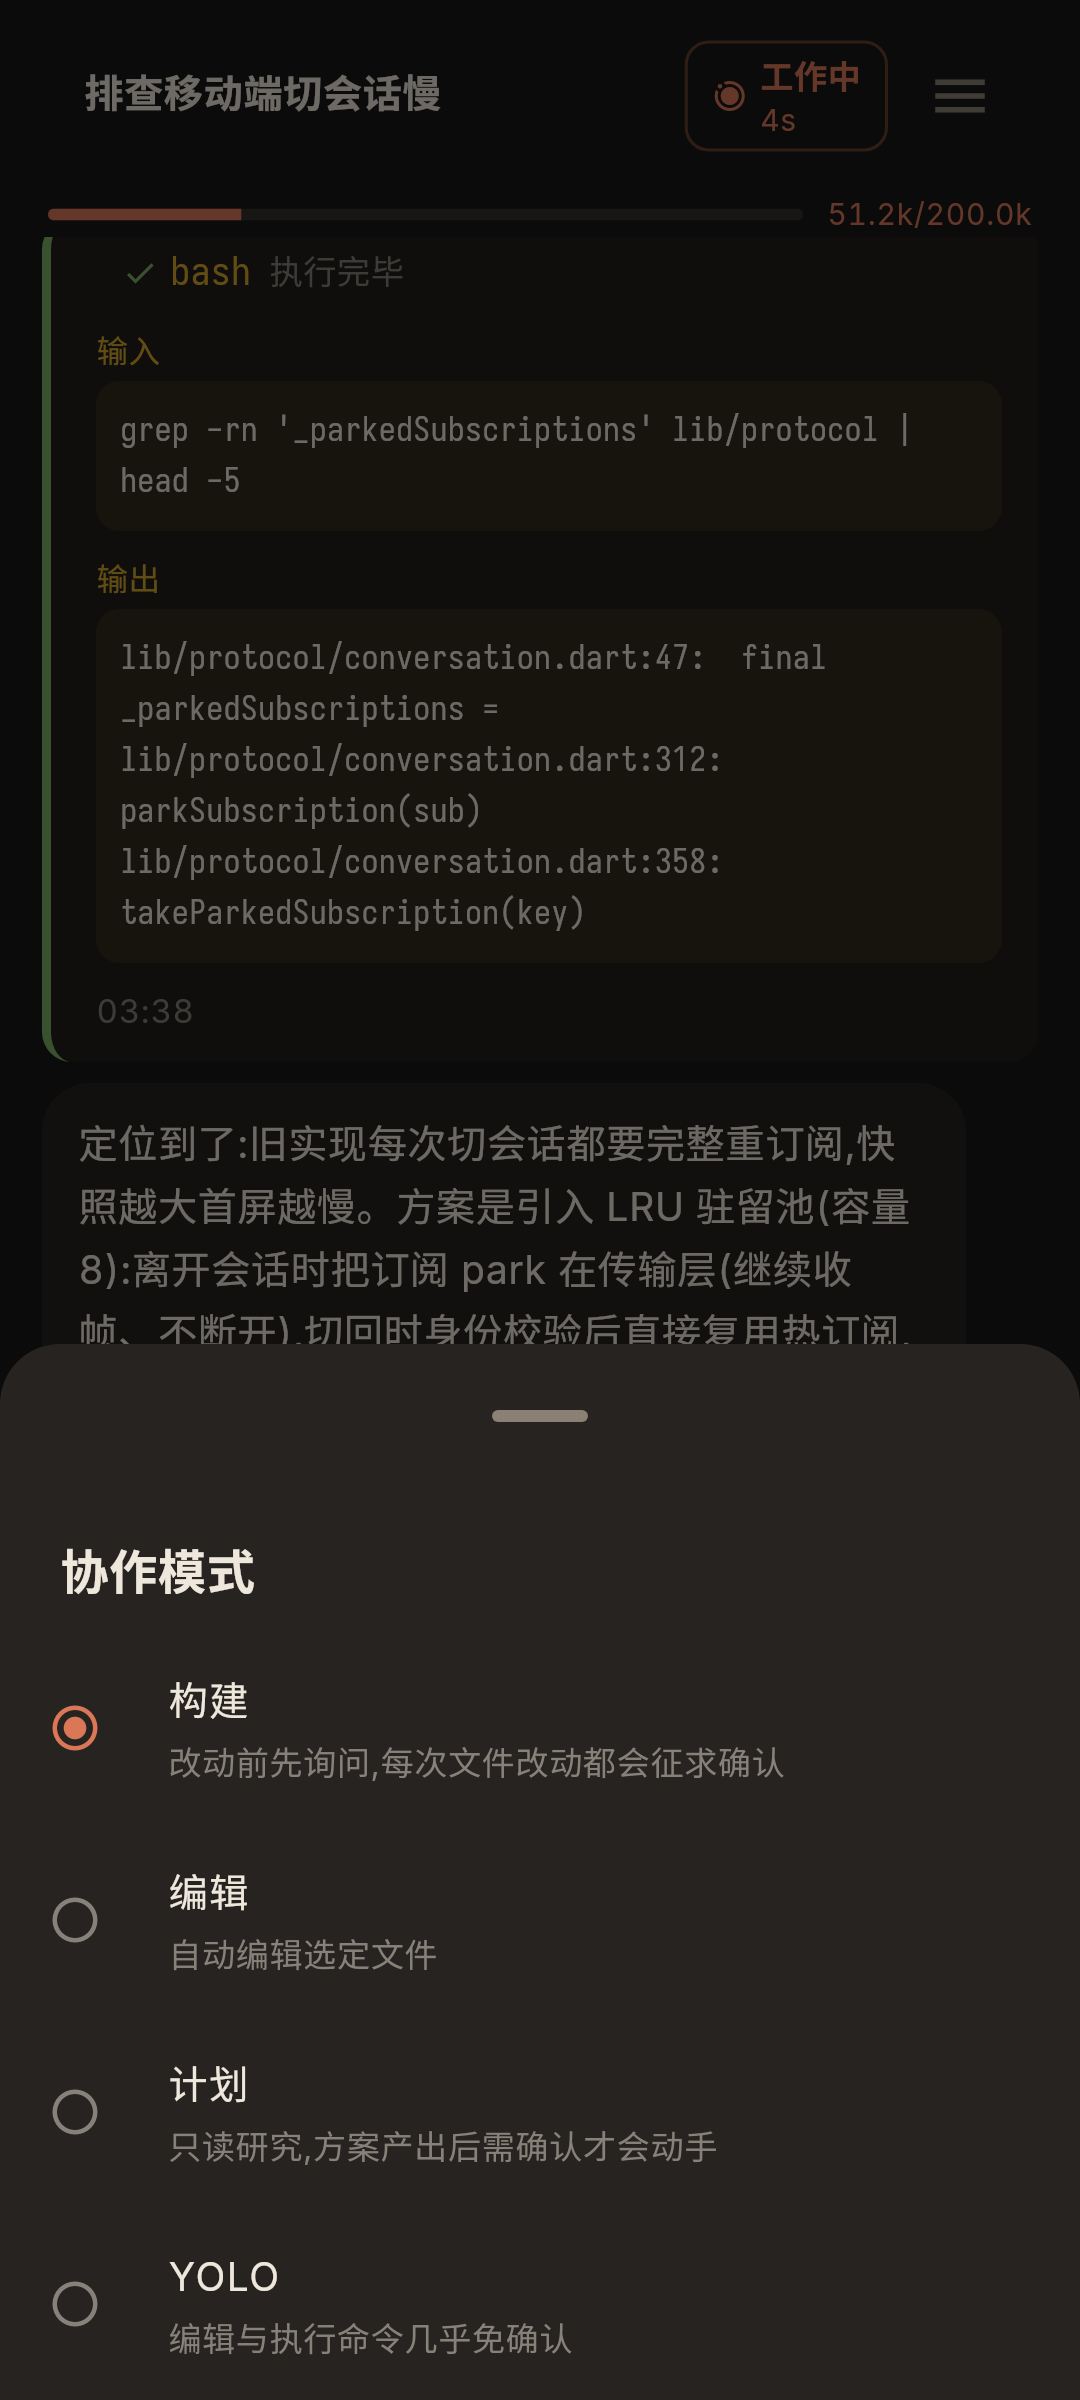
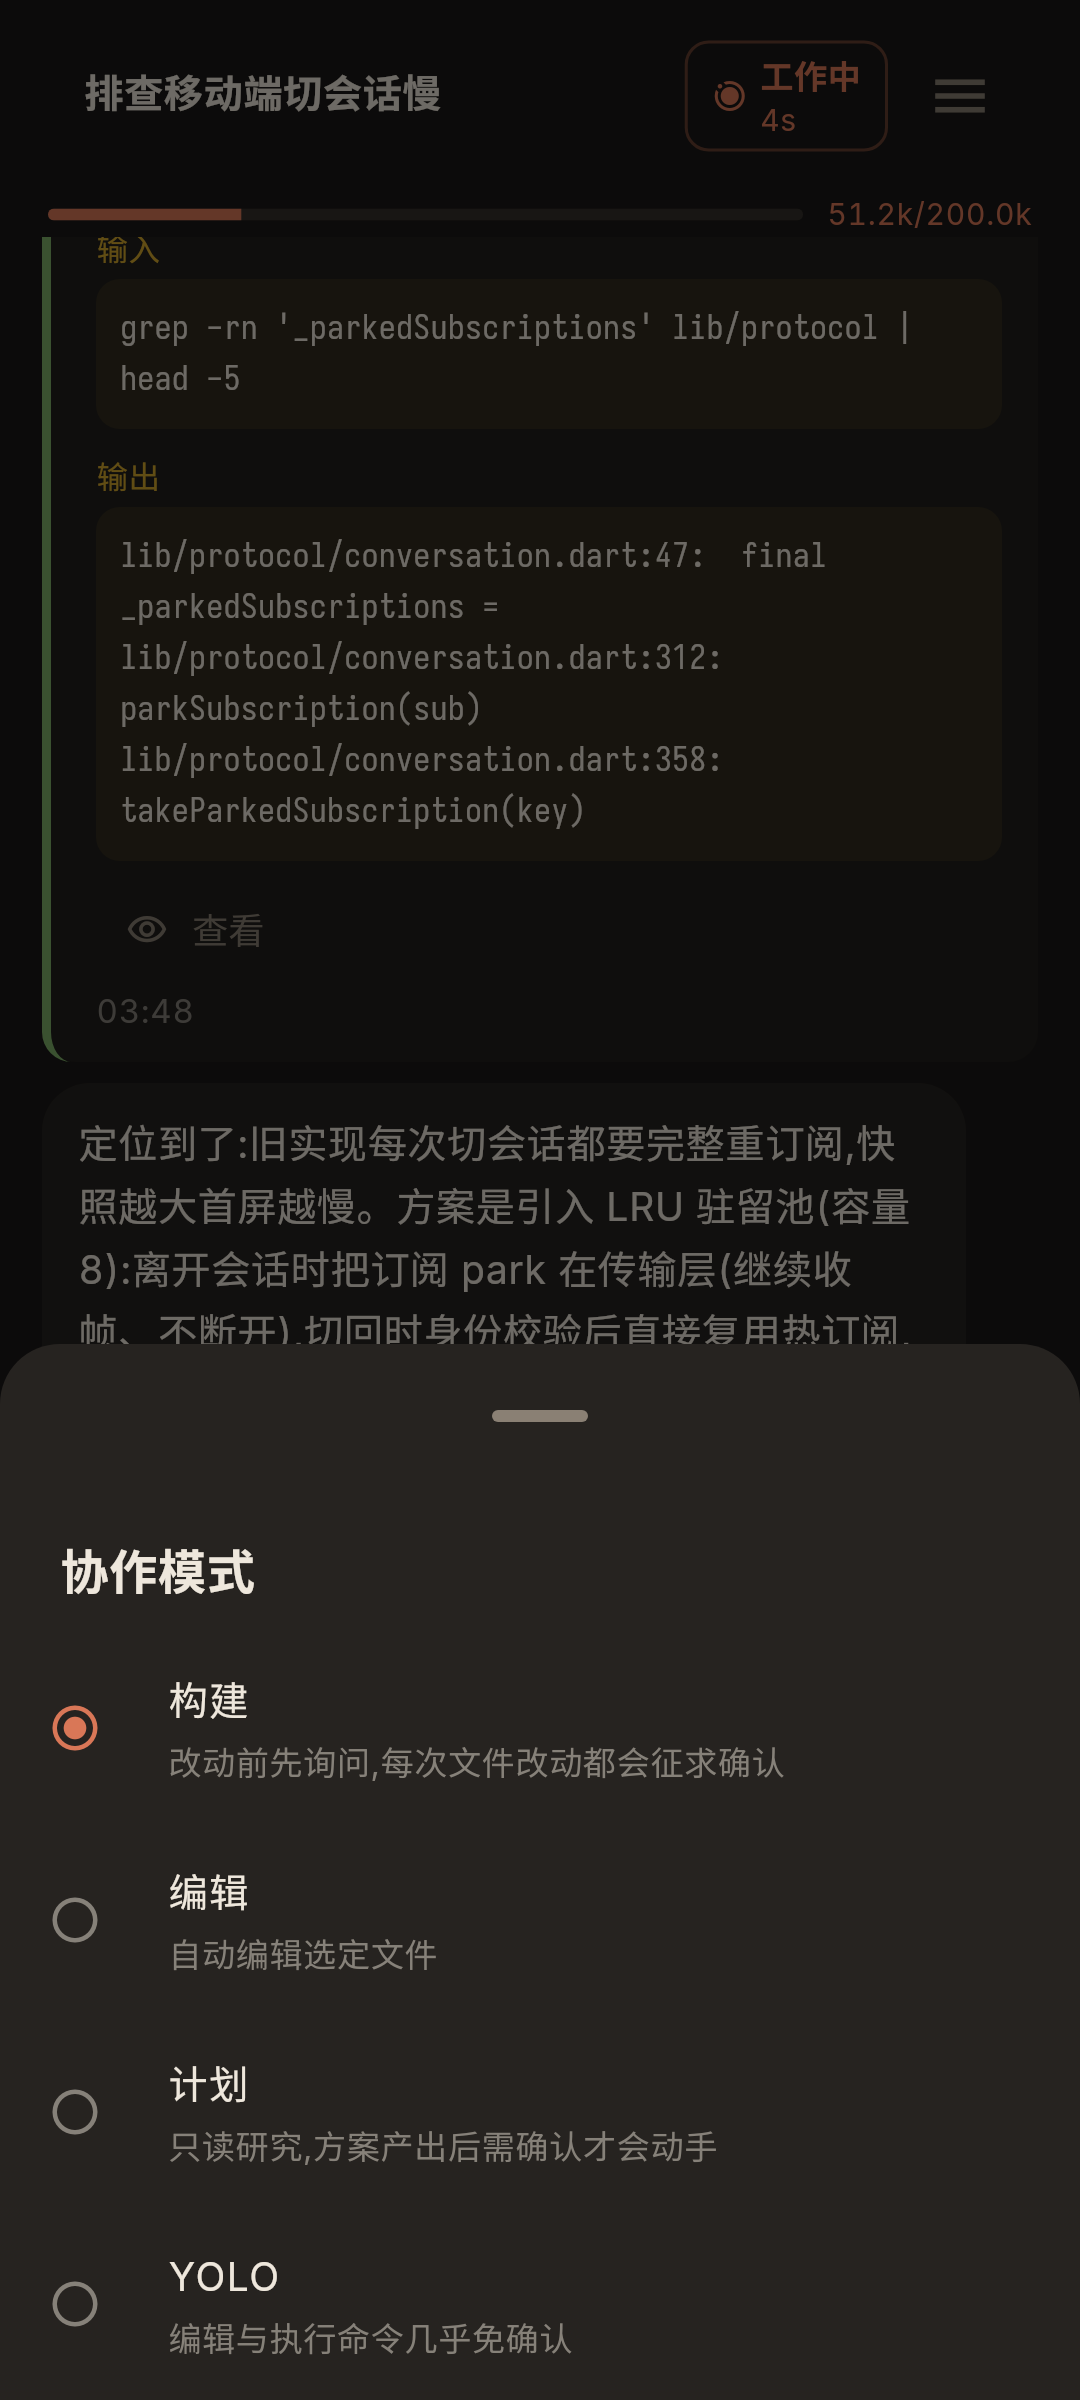
feat: view button on tool blocks opens full-screen output viewer
所有工具块的尾部时间戳上方新增「查看」按钮(用户裁定:所有工具、
所有文件类型):点开全屏查看器——等宽可选中文本(横纵双向滚动),
内嵌图片整幅渲染,标题带工具名与目标路径。README 截图同步重生成

diff --git a/lib/ui/chat/msg_widgets.dart b/lib/ui/chat/msg_widgets.dart
@@ -1529,6 +1529,31 @@ class _ToolCallTileState extends State<_ToolCallTile> {
                     );
                   },
                 ),
+            // 查看按钮(用户裁定:所有工具、所有文件类型,点开全屏
+            // 查看工具输出),位于尾部转圈/时间戳上方。
+            Padding(
+              padding: const EdgeInsets.fromLTRB(12, 0, 12, 4),
+              child: Align(
+                alignment: Alignment.centerLeft,
+                child: TextButton.icon(
+                  onPressed: () => _viewOutput(
+                      context,
+                      images,
+                      toolPath == null
+                          ? toolName
+                          : '$toolName · $toolPath',
+                      outputText),
+                  icon: const Icon(Icons.visibility_outlined, size: 14),
+                  label: const Text('查看', style: TextStyle(fontSize: 12)),
+                  style: TextButton.styleFrom(
+                    foregroundColor: e.textMuted,
+                    padding: const EdgeInsets.symmetric(horizontal: 10),
+                    minimumSize: const Size(0, 30),
+                    tapTargetSize: MaterialTapTargetSize.shrinkWrap,
+                  ),
+                ),
+              ),
+            ),
             // 尾部时间戳(用户裁定,与助手消息一致):运行中附转圈,
             // 完成后仅时间;行无戳(历史)则整行隐藏。标题块的执行中/
             // 执行完毕状态文字不受影响。
@@ -1560,6 +1585,21 @@ class _ToolCallTileState extends State<_ToolCallTile> {
               ),
           ],
         ),
+      ),
+    );
+  }
+
+  /// 查看工具输出(用户裁定:所有工具、所有文件类型,文本与图片
+  /// 都能看):全屏等宽查看器,标题带工具名与目标路径。
+  void _viewOutput(
+      BuildContext context, List images, String title, String content) {
+    showModalBottomSheet<void>(
+      context: context,
+      isScrollControlled: true,
+      builder: (context) => _ToolOutputSheet(
+        title: title,
+        content: content,
+        images: images,
       ),
     );
   }
@@ -1598,6 +1638,115 @@ class _ToolCallTileState extends State<_ToolCallTile> {
             ),
           ),
         ],
+      ),
+    );
+  }
+}
+
+/// 工具输出全屏查看器(用户裁定:所有工具、所有文件类型,文本与
+/// 图片都能看):等宽可选中文本支持横向滚动,图片整幅随页滚动。
+class _ToolOutputSheet extends StatelessWidget {
+  final String title;
+  final String content;
+  final List images;
+
+  const _ToolOutputSheet({
+    required this.title,
+    required this.content,
+    required this.images,
+  });
+
+  @override
+  Widget build(BuildContext context) {
+    final colors = EmberColors.of(context);
+    return SafeArea(
+      child: SizedBox(
+        height: MediaQuery.heightOf(context) * 0.92,
+        child: Padding(
+          padding: const EdgeInsets.fromLTRB(20, 16, 20, 12),
+          child: Column(
+            crossAxisAlignment: CrossAxisAlignment.start,
+            children: [
+              Row(
+                children: [
+                  Expanded(
+                    child: Text(title,
+                        maxLines: 2,
+                        overflow: TextOverflow.ellipsis,
+                        style: TextStyle(
+                            fontSize: 16,
+                            fontWeight: FontWeight.w600,
+                            color: colors.textSolid)),
+                  ),
+                  IconButton(
+                    tooltip: '关闭',
+                    visualDensity: VisualDensity.compact,
+                    onPressed: () => Navigator.pop(context),
+                    icon:
+                        Icon(Icons.close, size: 20, color: colors.textMuted),
+                  ),
+                ],
+              ),
+              const Divider(height: 16),
+              Expanded(
+                child: SingleChildScrollView(
+                  child: Column(
+                    crossAxisAlignment: CrossAxisAlignment.start,
+                    children: [
+                      if (content.isNotEmpty)
+                        SingleChildScrollView(
+                          scrollDirection: Axis.horizontal,
+                          child: SelectableText(
+                            content,
+                            style: TextStyle(
+                                fontFamily: 'monospace',
+                                fontSize: 11.5,
+                                height: 1.5,
+                                color: colors.textSoft),
+                          ),
+                        ),
+                      for (final image in images)
+                        if (image is Map && image['base64'] is String)
+                          Builder(
+                            builder: (context) {
+                              final bytes = decodeInlineToolImage(
+                                  image['base64'] as String);
+                              if (bytes == null) {
+                                return const SizedBox.shrink();
+                              }
+                              return Padding(
+                                padding: const EdgeInsets.only(top: 8),
+                                child: ClipRRect(
+                                  borderRadius: BorderRadius.circular(8),
+                                  child: Image.memory(
+                                    bytes,
+                                    fit: BoxFit.contain,
+                                    width: double.infinity,
+                                    // Cap the decode at viewport width —
+                                    // inline renders can be huge.
+                                    cacheWidth: (MediaQuery.sizeOf(context)
+                                            .width *
+                                        MediaQuery.devicePixelRatioOf(
+                                            context))
+                                        .round(),
+                                    errorBuilder: (_, _, _) =>
+                                        const SizedBox.shrink(),
+                                  ),
+                                ),
+                              );
+                            },
+                          ),
+                      if (content.isEmpty && images.isEmpty)
+                        Text('(无输出)',
+                            style: TextStyle(
+                                fontSize: 12, color: colors.textFaint)),
+                    ],
+                  ),
+                ),
+              ),
+            ],
+          ),
+        ),
       ),
     );
   }
